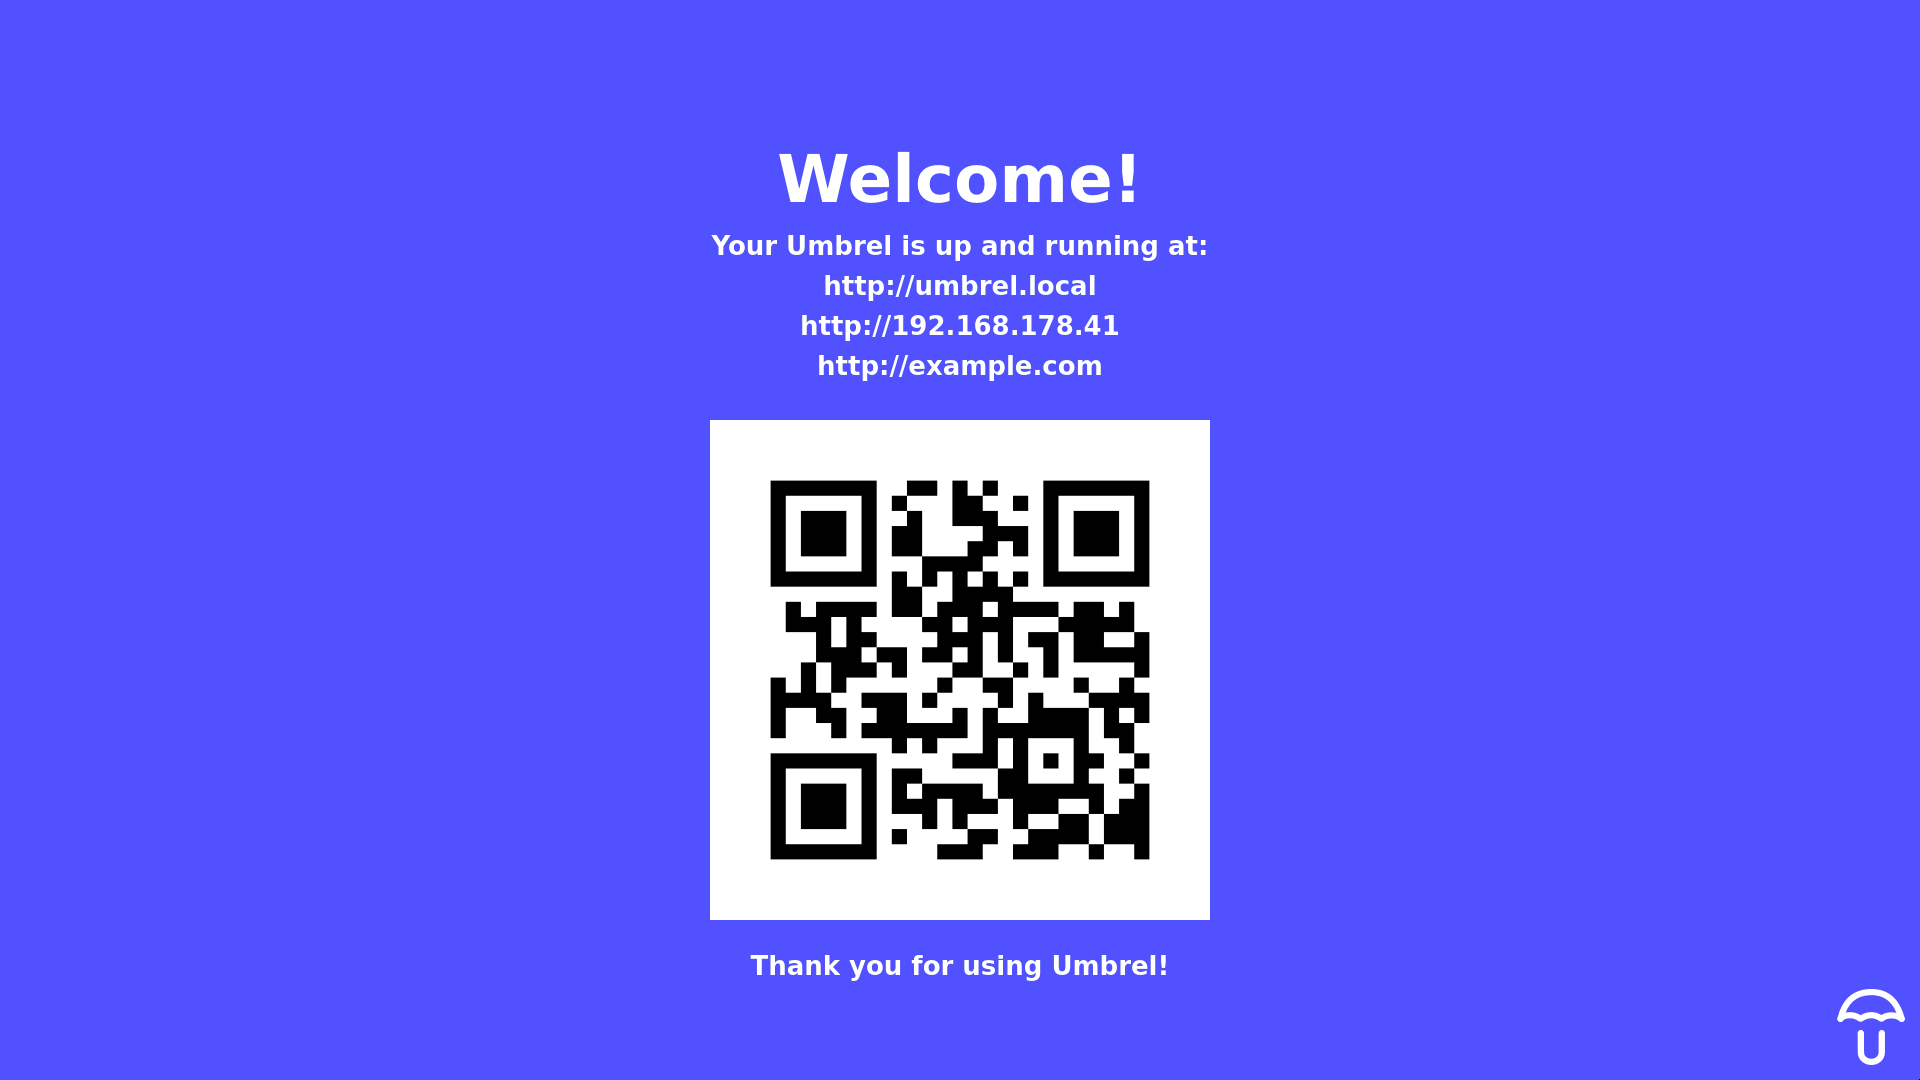
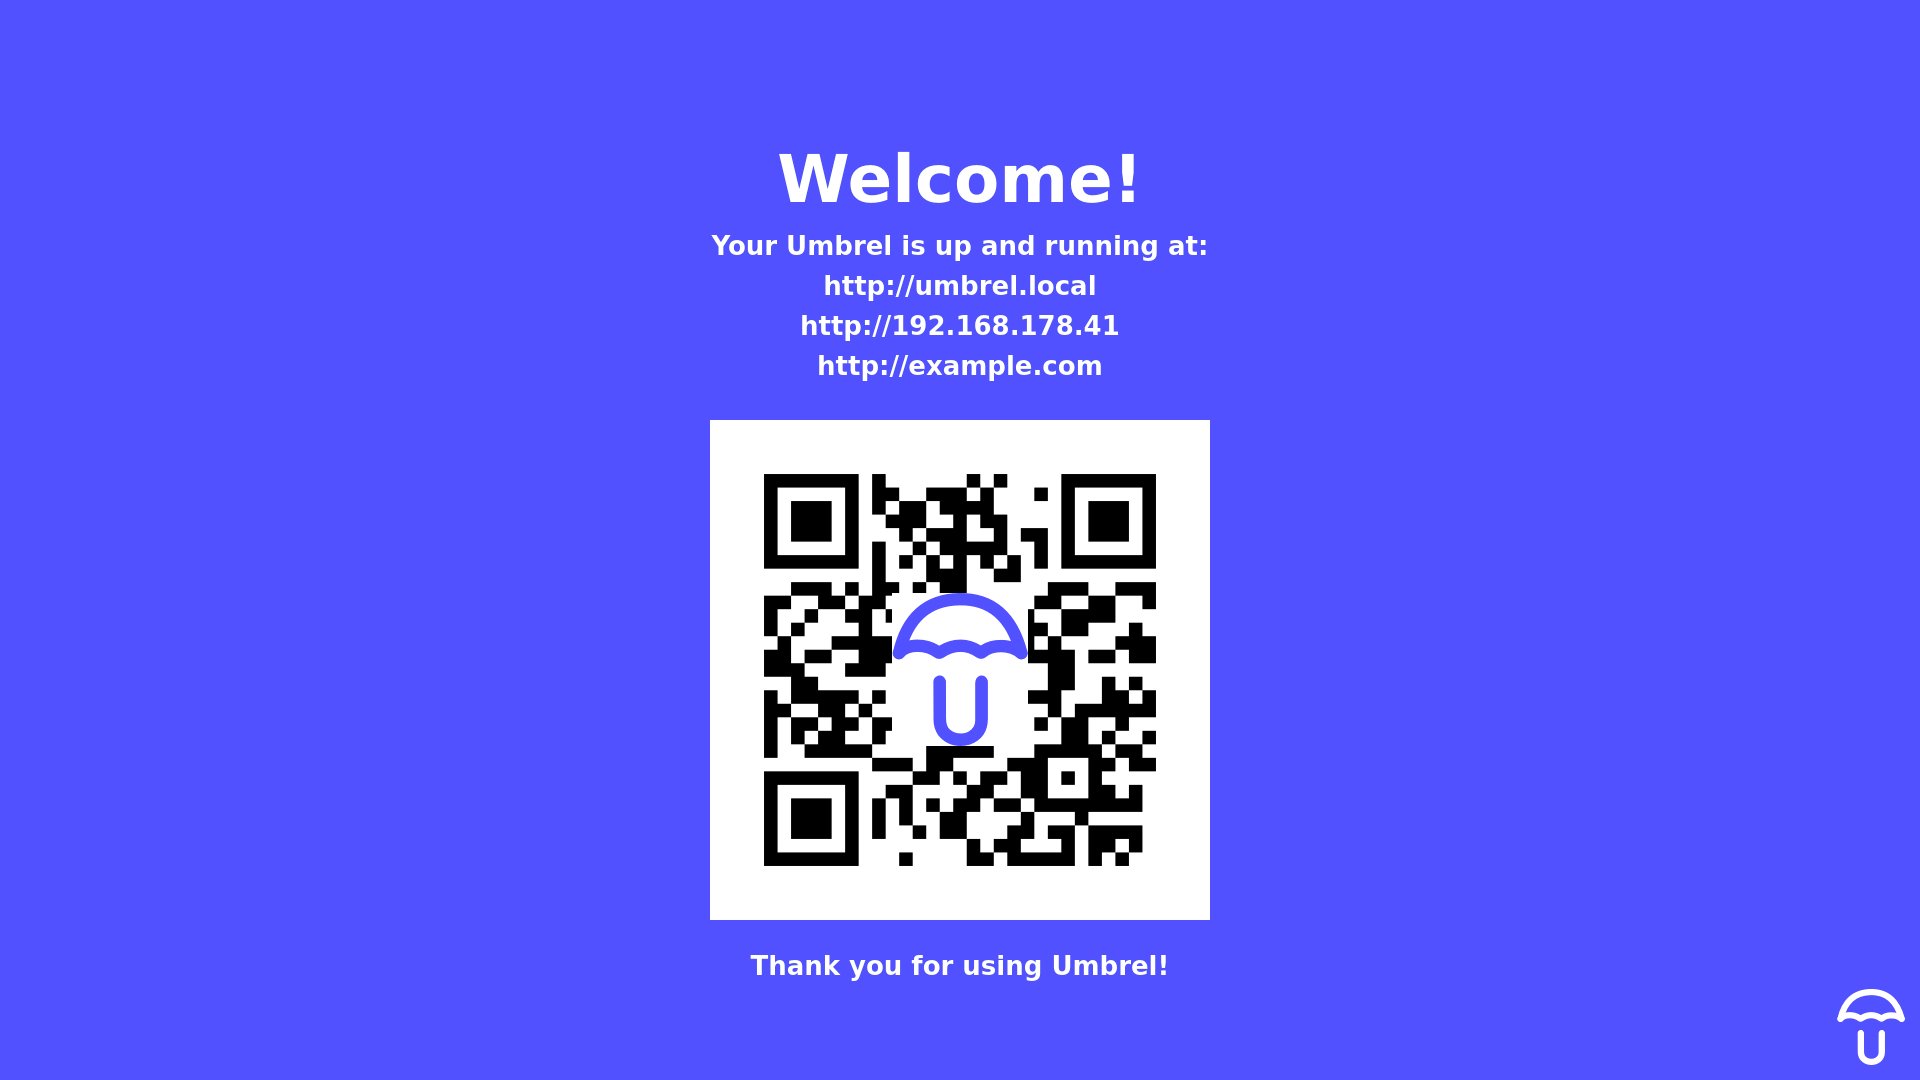
Version 0.2.0

Changed region(s): [[0.375, 0.4278, 0.625, 0.825]]

diff --git a/window.cpp b/window.cpp
@@ -50,17 +50,16 @@
 
 #include "window.h"
 
-#include <QMouseEvent>
+#include <QFile>
+#include <QExposeEvent>
+#include <QResizeEvent>
 #include <QWindow>
 #include <QBackingStore>
-#include <QMatrix4x4>
 #include <QPainter>
 #include <QXmlStreamReader>
 #include <QSvgRenderer>
 #include <QHostAddress>
 #include <QNetworkInterface>
-
-#include <QtWaylandCompositor/qwaylandseat.h>
 
 #include "QrCode.hpp"
 
@@ -82,6 +81,10 @@ void Window::drawBackground()
     file2.open(QIODevice::ReadOnly);
     QTextStream s2(&file2);
     QString logoString = s2.readAll();
+    QFile file3(":/umbrel2.svg");
+    file3.open(QIODevice::ReadOnly);
+    QTextStream s3(&file3);
+    QString logoString2 = s3.readAll();
 
     // Get tor host name
     QFile file("/home/umbrel/umbrel/tor/data/web/hostname");
@@ -110,9 +113,19 @@ void Window::drawBackground()
     QPainter painter2(device);
     int deltaX = this->geometry().width() - backgroundImage.width();
     int deltaY = this->geometry().height() - backgroundImage.height() + 260;
+    int deltaX2 = backgroundImage.width() - 136;
+    int deltaY2 = backgroundImage.height() - 153;
     painter2.drawImage(this->geometry(), backgroundColorImage);
     painter2.translate(deltaX / 2, deltaY / 2);
     painter2.drawImage(backgroundImage.rect(), backgroundImage);
+    QImage logoImage2(136, 153, QImage::Format_ARGB32);
+    logoImage2.fill(Qt::white);
+    QPainter painter6(&logoImage2);
+    QXmlStreamReader *reader2 = new QXmlStreamReader(logoString2);
+    QSvgRenderer *renderer3 = new QSvgRenderer(reader2);
+    renderer3->render(&painter6);
+    painter2.translate(deltaX2 / 2, deltaY2 / 2);
+    painter2.drawImage(logoImage2.rect(), logoImage2);
     painter2.end();
 
     // Add text
@@ -141,17 +154,20 @@ void Window::drawBackground()
     QXmlStreamReader *reader = new QXmlStreamReader(logoString);
     QSvgRenderer *renderer2 = new QSvgRenderer(reader);
     renderer2->render(&painter4);
-    QPaintDevice *device2 = m_backingStore->paintDevice();
-    QPainter painter5(device2);
-    int delta2X = this->geometry().width() - logoImage.width() - 15;
-    int delta2Y = this->geometry().height() - logoImage.height() - 15;
-    painter5.translate(delta2X, delta2Y);
+    QPainter painter5(device);
+    int deltaX3 = this->geometry().width() - logoImage.width() - 15;
+    int deltaY3 = this->geometry().height() - logoImage.height() - 15;
+    painter5.translate(deltaX3, deltaY3);
     painter5.drawImage(logoImage.rect(), logoImage);
     painter5.end();
 }
+
 void Window::update()
 {
     if (!isExposed())
+        return;
+    // Remove this for screenshots using linuxfb, but having it otherwise results in glitches
+    if(updated)
         return;
 
     QRect rect(0, 0, width(), height());
@@ -160,6 +176,7 @@ void Window::update()
     drawBackground();
     m_backingStore->endPaint();
     m_backingStore->flush(rect);
+    updated = true;
 }
 
 bool Window::event(QEvent *event)
@@ -183,7 +200,7 @@ void Window::resizeEvent(QResizeEvent *resizeEvent)
 }
 
 QSvgRenderer *Window::getQrCode(QString *address) {
-    qrcodegen::QrCode qr0 = qrcodegen::QrCode::encodeText(address->toStdString().c_str(), qrcodegen::QrCode::Ecc::MEDIUM);
+    qrcodegen::QrCode qr0 = qrcodegen::QrCode::encodeText(address->toStdString().c_str(), qrcodegen::QrCode::Ecc::HIGH);
     QString svg = QString::fromStdString(qr0.toSvgString(4));
     QXmlStreamReader *reader = new QXmlStreamReader(svg);
     QSvgRenderer *renderer = new QSvgRenderer(reader);

diff --git a/window.h b/window.h
@@ -48,8 +48,8 @@
 **
 ****************************************************************************/
 
-#ifndef COMPOSITORWINDOW_H
-#define COMPOSITORWINDOW_H
+#ifndef WINDOW_H
+#define WINDOW_H
 
 #include <QWindow>
 #include <QPointer>
@@ -93,8 +93,9 @@ private:
     QPointF m_initialMousePos;
     View *m_dragIconView = nullptr;
     QBackingStore *m_backingStore = nullptr;
+    bool updated = false;
 };
 
 QT_END_NAMESPACE
 
-#endif // COMPOSITORWINDOW_H
+#endif // WINDOW_H

diff --git a/CHANGELOG.md b/CHANGELOG.md
@@ -1,0 +1,27 @@
+# Changelog
+
+## Beta versions
+
+### v0.2.0
+
+- Add Umbrel logo to the QR code
+- Remove movable cursor
+- Switch to CMake build system
+
+## Alpha versions
+
+### v0.1.1
+
+- Add Umbrel logo in the bottom right corner
+- Add "Thank you for using Umbrel" text
+
+### v0.1.0
+
+- Fix missing "http://" in QR Code link
+- Optimize text align
+- Remove unsused wayland compositor
+- Code cleanups
+
+### v0.0.1
+
+- First release

diff --git a/README.md b/README.md
@@ -15,7 +15,7 @@ sudo apt install libqt5gui5 libqt5svg5 libqt5network5 -y
 ```
 mkdir build
 cd build
-qmake ..
+cmake ..
 make -j$(nproc)
 ```
 
@@ -23,7 +23,8 @@ make -j$(nproc)
 
 To run this on an Raspberry Pi with Umbrel OS, run
 ```
-./umbrel-details -platform linuxfb
+export QT_QPA_LINUXFB_HIDECURSOR=1
+./umbrel-details -platform eglfs
 ```
 
 ## License
